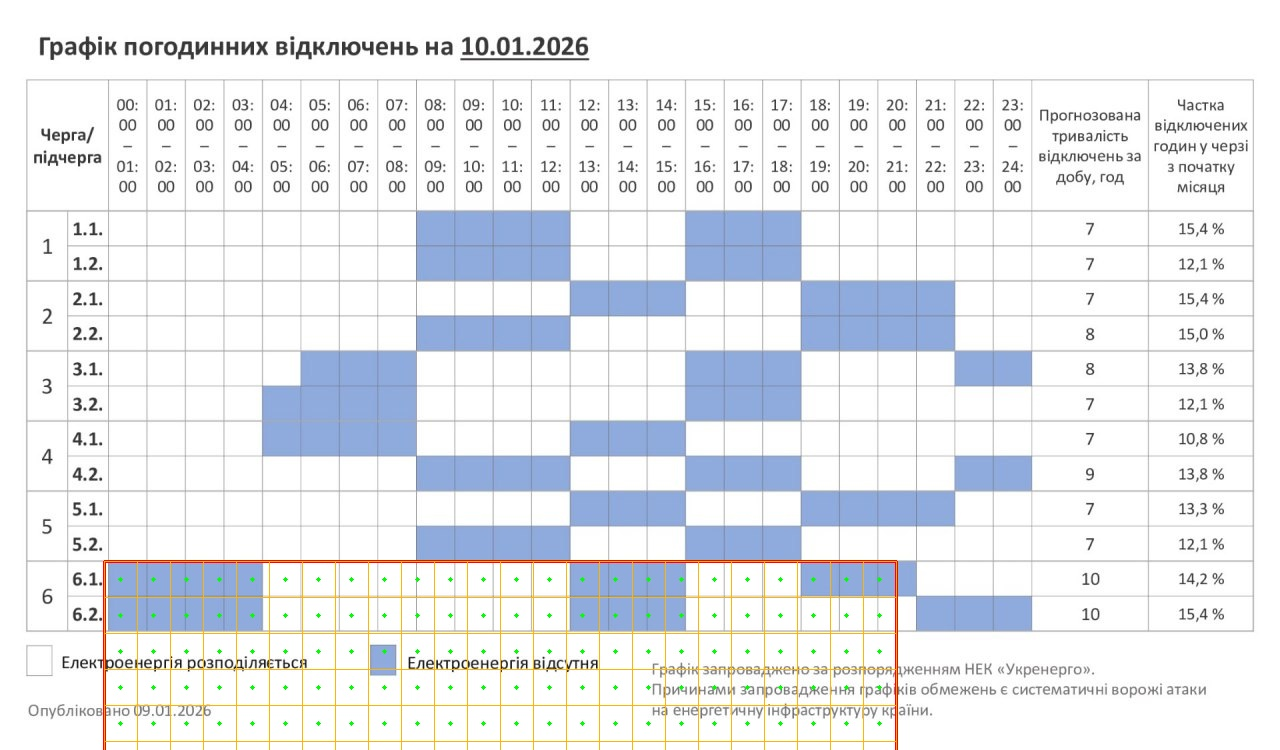
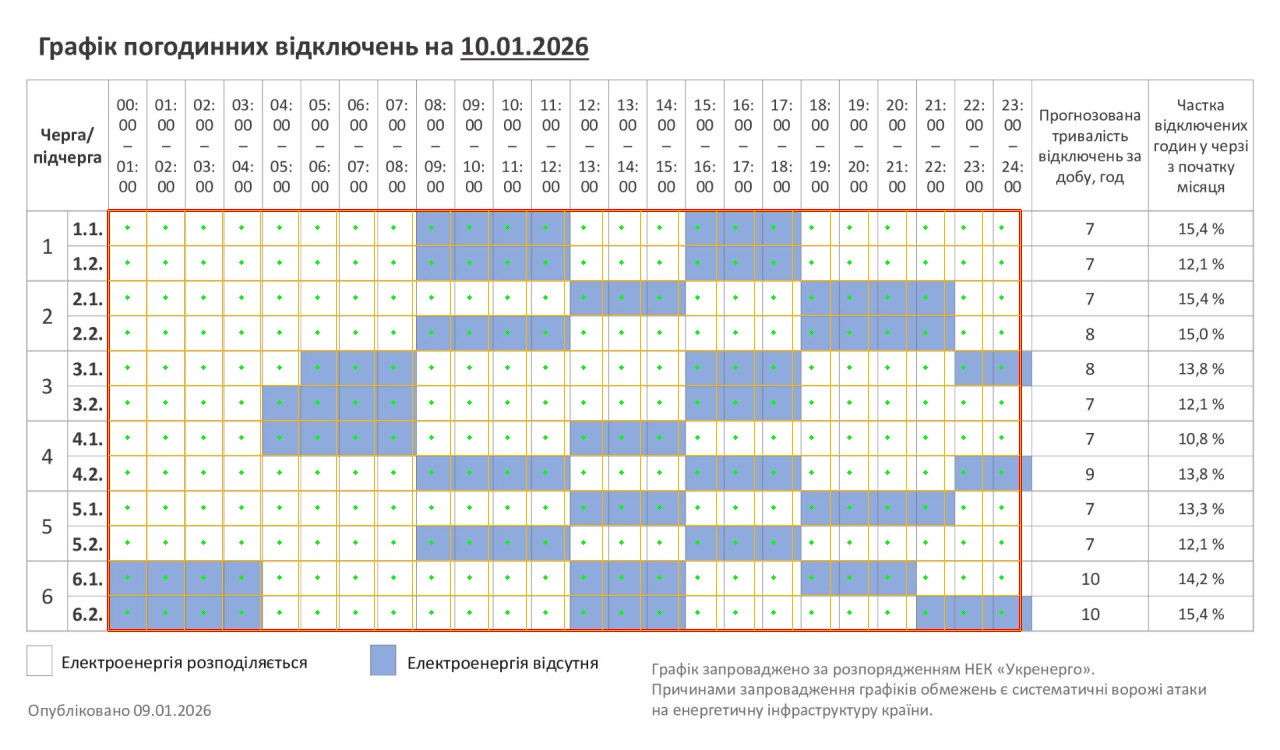
regenereate report

Changed region(s): [[0.0625, 0.276, 0.8125, 1.0]]

diff --git a/electro_parse.py b/electro_parse.py
@@ -84,6 +84,8 @@ def _infer_geometry(
 ) -> GridGeometry:
     try:
         components = _extract_filled_components(quantized_image)
+        if len(components) < 2:
+            raise ValueError("Not enough filled components for reliable geometry inference.")
         base_width = _infer_step([width for _, _, width, _, _ in components], 20, 60)
         base_height = _infer_step([height for _, _, _, height, _ in components], 20, 60)
 
@@ -278,14 +280,47 @@ def _sample_cell_colors(image: np.ndarray, geometry: GridGeometry) -> list[list[
 def _draw_debug_overlay(
     image: np.ndarray,
     geometry: GridGeometry,
+    cell_colors: list[list[np.ndarray]],
+    off_colors: set[tuple[int, int, int]],
+    maybe_colors: set[tuple[int, int, int]],
     output_path: Path,
 ) -> None:
     debug_image = image.copy()
+    overlay = debug_image.copy()
     left = geometry.matrix_left
     top = geometry.matrix_top
     right = left + geometry.column_count * geometry.cell_width
     bottom = top + geometry.row_count * geometry.cell_height
 
+    status_colors = {
+        "off": (40, 40, 220),
+        "maybe_off": (0, 200, 255),
+        "on": (60, 180, 75),
+    }
+
+    for row in range(geometry.row_count):
+        for column in range(geometry.column_count):
+            color = tuple(int(channel) for channel in np.uint8(cell_colors[row][column]).tolist())
+            if color in off_colors:
+                status = "off"
+            elif color in maybe_colors:
+                status = "maybe_off"
+            else:
+                status = "on"
+
+            cell_left = left + column * geometry.cell_width
+            cell_right = left + (column + 1) * geometry.cell_width
+            cell_top = top + row * geometry.cell_height
+            cell_bottom = top + (row + 1) * geometry.cell_height
+            cv2.rectangle(
+                overlay,
+                (cell_left, cell_top),
+                (cell_right, cell_bottom),
+                status_colors[status],
+                -1,
+            )
+
+    cv2.addWeighted(overlay, 0.25, debug_image, 0.75, 0, debug_image)
     cv2.rectangle(debug_image, (left, top), (right, bottom), (0, 0, 255), 2)
 
     for column in range(geometry.column_count + 1):
@@ -359,10 +394,10 @@ def parse_schedule_image(
 
     quantized = quantize_image(image, max_colors=max_colors)
     geometry = _infer_geometry(image, quantized, row_count=row_count, column_count=column_count)
-    if debug_output is not None:
-        _draw_debug_overlay(image, geometry, Path(debug_output))
     cell_colors = _sample_cell_colors(quantized, geometry)
     off_colors, maybe_colors = _classify_palette(cell_colors)
+    if debug_output is not None:
+        _draw_debug_overlay(image, geometry, cell_colors, off_colors, maybe_colors, Path(debug_output))
 
     result: dict[str, dict[str, list[str]]] = {}
     for row_index, label in enumerate(_row_labels(row_count)):

diff --git a/tests/test_parser.py b/tests/test_parser.py
@@ -9,6 +9,26 @@ IMAGES = ROOT / "images"
 
 
 class ParserTests(unittest.TestCase):
+    def test_parses_january_schedule(self) -> None:
+        parsed = parse_schedule_image(IMAGES / "photo_2026-01-10.jpeg")
+        self.assertEqual(
+            parsed,
+            {
+                "1.1": {"off": ["08:00", "09:00", "10:00", "11:00", "15:00", "16:00", "17:00"], "maybe_off": []},
+                "1.2": {"off": ["08:00", "09:00", "10:00", "11:00", "15:00", "16:00", "17:00"], "maybe_off": []},
+                "2.1": {"off": ["12:00", "13:00", "14:00", "18:00", "19:00", "20:00", "21:00"], "maybe_off": []},
+                "2.2": {"off": ["08:00", "09:00", "10:00", "11:00", "18:00", "19:00", "20:00", "21:00"], "maybe_off": []},
+                "3.1": {"off": ["05:00", "06:00", "07:00", "15:00", "16:00", "17:00", "22:00", "23:00"], "maybe_off": []},
+                "3.2": {"off": ["04:00", "05:00", "06:00", "07:00", "15:00", "16:00", "17:00"], "maybe_off": []},
+                "4.1": {"off": ["04:00", "05:00", "06:00", "07:00", "12:00", "13:00", "14:00"], "maybe_off": []},
+                "4.2": {"off": ["08:00", "09:00", "10:00", "11:00", "15:00", "16:00", "17:00", "22:00", "23:00"], "maybe_off": []},
+                "5.1": {"off": ["12:00", "13:00", "14:00", "18:00", "19:00", "20:00", "21:00"], "maybe_off": []},
+                "5.2": {"off": ["08:00", "09:00", "10:00", "11:00", "15:00", "16:00", "17:00"], "maybe_off": []},
+                "6.1": {"off": ["00:00", "01:00", "02:00", "03:00", "12:00", "13:00", "14:00", "18:00", "19:00", "20:00"], "maybe_off": []},
+                "6.2": {"off": ["00:00", "01:00", "02:00", "03:00", "12:00", "13:00", "14:00", "21:00", "22:00", "23:00"], "maybe_off": []},
+            },
+        )
+
     def test_parses_dense_schedule(self) -> None:
         parsed = parse_schedule_image(IMAGES / "photo_2026-02-12.jpeg")
         self.assertEqual(

diff --git a/report/report.md b/report/report.md
@@ -134,51 +134,51 @@ Source directory: `images`
 ```json
 {
   "1.1": {
-    "off": ["00:00", "01:00", "02:00", "03:00", "04:00", "14:00", "15:00", "16:00", "17:00", "21:00", "22:00", "23:00"],
+    "off": ["08:00", "09:00", "10:00", "11:00", "15:00", "16:00", "17:00"],
     "maybe_off": []
   },
   "1.2": {
-    "off": ["00:00", "01:00", "02:00", "03:00", "04:00", "14:00", "15:00", "16:00", "17:00"],
+    "off": ["08:00", "09:00", "10:00", "11:00", "15:00", "16:00", "17:00"],
     "maybe_off": []
   },
   "2.1": {
-    "off": ["08:00"],
+    "off": ["12:00", "13:00", "14:00", "18:00", "19:00", "20:00", "21:00"],
     "maybe_off": []
   },
   "2.2": {
-    "off": [],
+    "off": ["08:00", "09:00", "10:00", "11:00", "18:00", "19:00", "20:00", "21:00"],
     "maybe_off": []
   },
   "3.1": {
-    "off": [],
+    "off": ["05:00", "06:00", "07:00", "15:00", "16:00", "17:00", "22:00", "23:00"],
     "maybe_off": []
   },
   "3.2": {
-    "off": [],
+    "off": ["04:00", "05:00", "06:00", "07:00", "15:00", "16:00", "17:00"],
     "maybe_off": []
   },
   "4.1": {
-    "off": [],
+    "off": ["04:00", "05:00", "06:00", "07:00", "12:00", "13:00", "14:00"],
     "maybe_off": []
   },
   "4.2": {
-    "off": [],
+    "off": ["08:00", "09:00", "10:00", "11:00", "15:00", "16:00", "17:00", "22:00", "23:00"],
     "maybe_off": []
   },
   "5.1": {
-    "off": [],
+    "off": ["12:00", "13:00", "14:00", "18:00", "19:00", "20:00", "21:00"],
     "maybe_off": []
   },
   "5.2": {
-    "off": [],
+    "off": ["08:00", "09:00", "10:00", "11:00", "15:00", "16:00", "17:00"],
     "maybe_off": []
   },
   "6.1": {
-    "off": [],
+    "off": ["00:00", "01:00", "02:00", "03:00", "12:00", "13:00", "14:00", "18:00", "19:00", "20:00"],
     "maybe_off": []
   },
   "6.2": {
-    "off": [],
+    "off": ["00:00", "01:00", "02:00", "03:00", "12:00", "13:00", "14:00", "21:00", "22:00", "23:00"],
     "maybe_off": []
   }
 }
